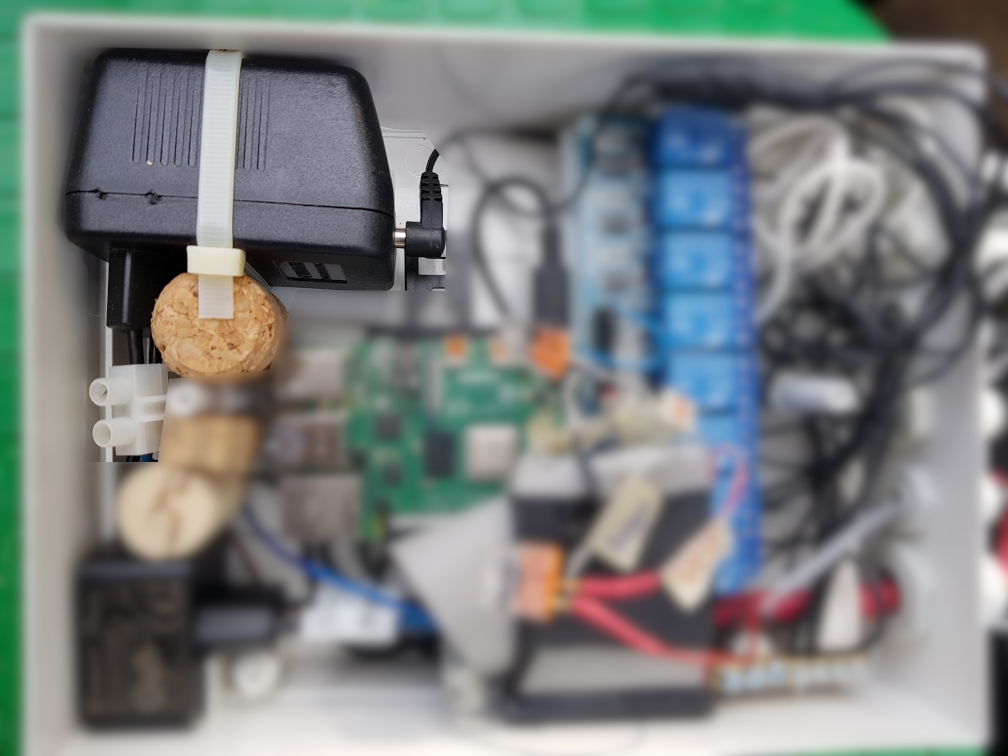
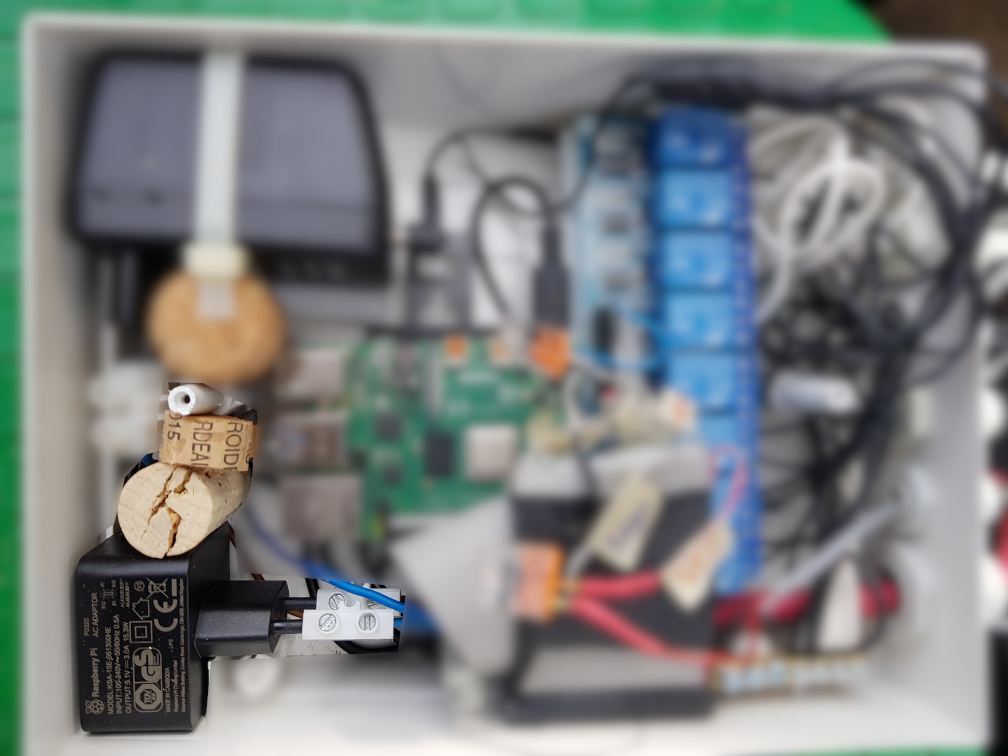
doc update

Changed region(s): [[0.0615, 0.0608, 0.4613, 0.9735], [0.0923, 0.2434, 0.1538, 0.2738], [0.2153, 0.4563, 0.246, 0.4868]]

diff --git a/README.md b/README.md
@@ -21,7 +21,7 @@ Für den Betrieb des Raspberry Pi wird ein 5V-Netzteil benötigt, das diesen dau
 
 Weil im Verteilerkasten kein Platz für eine Steckdose ist, habe ich die Stecker-Stifte des Netzteils mittels Lüsterklemmen mit dem Stromnetz verbunden.
 
-Mittels eines Korkens ist das Netzteil in der Ecke des Verteilerkastens fixiert.
+Mittels Korkens ist das Netzteil in der Ecke des Verteilerkastens fixiert.
 
 ![Raspberry Pi Netzteil](pics/raspberrypi_netzteil.png)
 
@@ -29,6 +29,10 @@ Mittels eines Korkens ist das Netzteil in der Ecke des Verteilerkastens fixiert.
 Zum Betrieb der Magenetventile wird ein Netzteil mit 24V Wechselspannung benötigt.
 
 Weil im Verteilerkasten kein Platz für eine Steckdose ist, habe ich die Stecker-Stifte des Netzteils mittels Lüsterklemmen mit dem Stromnetz verbunden.
+
+Mittels Korkens ist das Netzteil in der Ecke des Verteilerkastens fixiert.
+
+![Magnetventil Netzteil](pics/magnetventil_netzteil.png)
 
 ### Relais-Board
 Die I/O-Ports des Raspberry Pi mit 5V-Pegel dienen nur der Steuerung von Relais, welche den 24V-AC-Stromkreis für die Magnetventile schalten. Für jedes Ventil benötigt man ein Relais. Kompakt und preisgünstig geht mit einem Relais-Board. Für meine 8 Magnetventile habe ich dementsprechend ein 8-Kanal-Relais-Board verwendet.
